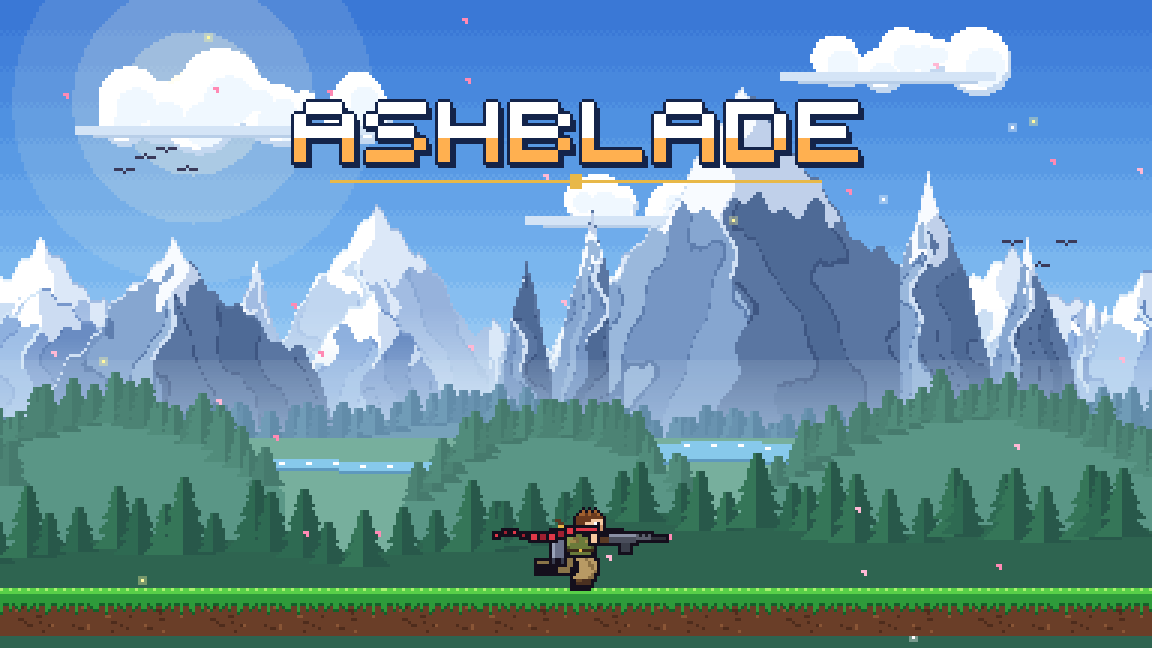
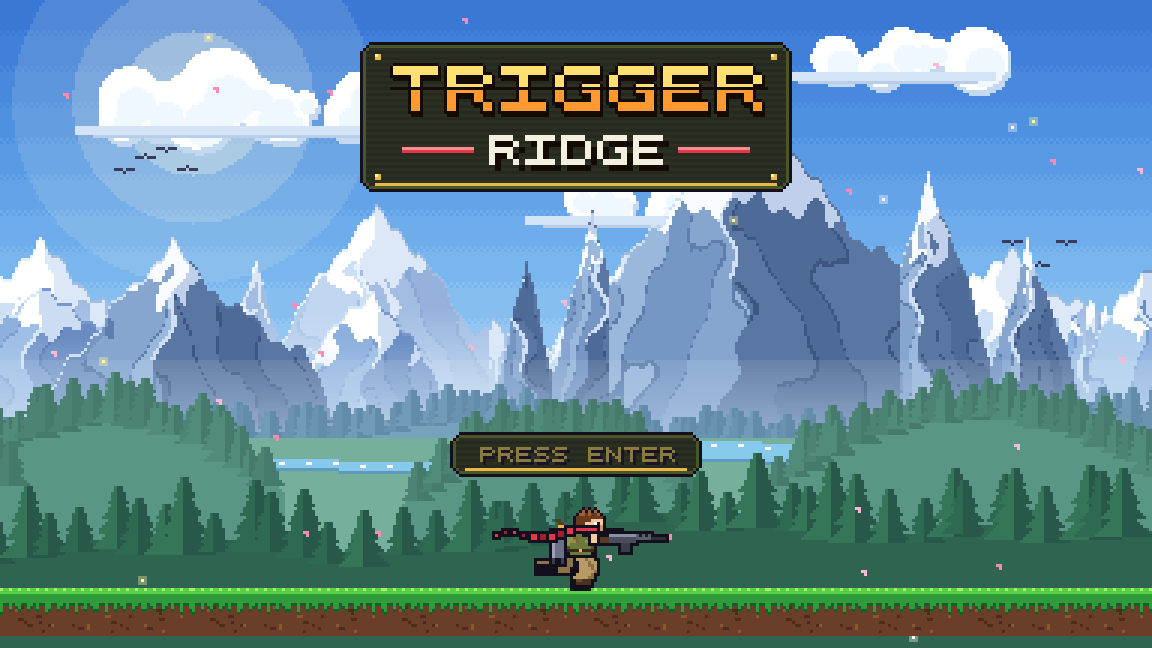
Rename to Trigger Ridge, add README and compact title badge
- Rename the game to Trigger Ridge (title screen and browser tab)
- Replace the wide title text with a compact military-style badge
- Add a README with how to play, controls, features and project structure
- Update the title mockup

Changed region(s): [[0.25, 0.0617, 0.75, 0.3086], [0.375, 0.6481, 0.625, 0.7407]]

diff --git a/js/main.js b/js/main.js
@@ -239,18 +239,45 @@ function drawTitle() {
   Background.drawFront(ctx, cam, game.t);
   for (let i = 0; i < W; i += 16) ctx.drawImage(TILES.top[(i >> 4) & 3], i, 196);
   drawRig(ctx, SKINS.rowan, { ...POSE.idle(game.t), flow: 0.9 }, W / 2, 196, 1, game.t * 0.15);
-  for (const [a, b] of [[-1, 0], [1, 0], [0, -1], [0, 1], [1, 1], [0, 2], [1, 2], [-1, 1], [2, 2]])
-    drawText(ctx, 'ASHBLADE', W / 2 + a, 34 + b, '#14244a', { scale: 4, align: 'center' });
-  drawText(ctx, 'ASHBLADE', W / 2, 34, '#ffffff', { scale: 4, align: 'center' });
+  drawLogo(W / 2, 14);
+  plate(W / 2 - 42, 144, 84, 15);
+  text('PRESS ENTER', W / 2, 149, (game.t >> 5) % 2 ? '#ffe070' : '#8a7a40', { align: 'center' });
+}
+
+// Dark plate with cut corners, an olive border and a gold trim line.
+function plate(x, y, w, h) {
+  for (let r = 0; r < h; r++) {
+    const cut = Math.max(0, 3 - Math.min(r, h - 1 - r));
+    px(ctx, OL, x + cut, y + r, w - cut * 2, 1);
+    if (r > 0 && r < h - 1) px(ctx, '#4a5628', x + cut + 1, y + r, w - cut * 2 - 2, 1);
+    if (r > 1 && r < h - 2) px(ctx, r % 2 ? '#262a1e' : '#2c3022', x + cut + 2, y + r, w - cut * 2 - 4, 1);
+  }
+  px(ctx, '#e8b848', x + 5, y + h - 3, w - 10, 1);
+}
+
+// Compact title badge: TRIGGER in hot yellow-to-orange stencil letters, RIDGE beneath between red bars.
+function drawLogo(cx, y) {
+  plate(cx - 72, y, 144, 50);
+  for (const [rx, ry] of [[cx - 67, y + 4], [cx + 65, y + 4], [cx - 67, y + 44], [cx + 65, y + 44]]) {
+    px(ctx, '#e8b848', rx, ry, 2, 2);
+    px(ctx, '#fff4b0', rx, ry, 1, 1);
+  }
+  const word = 'TRIGGER', ty = y + 8;
+  for (const [a, b] of [[-1, 0], [1, 0], [0, -1], [0, 1], [1, 1], [-1, 1], [0, 2], [1, 2]])
+    drawText(ctx, word, cx + a, ty + b, '#140c04', { scale: 3, align: 'center' });
+  drawText(ctx, word, cx, ty, '#ff9a30', { scale: 3, align: 'center' });
   ctx.save();
   ctx.beginPath();
-  ctx.rect(0, 46, W, 8);
+  ctx.rect(0, ty, W, 8);
   ctx.clip();
-  drawText(ctx, 'ASHBLADE', W / 2, 34, '#ffb050', { scale: 4, align: 'center' });
+  drawText(ctx, word, cx, ty, '#ffe070', { scale: 3, align: 'center' });
   ctx.restore();
-  px(ctx, '#e8b848', 110, 60, 164, 1);
-  px(ctx, '#e8b848', 190, 58, 4, 5);
-  if ((game.t >> 5) % 2) text('- PRESS ENTER -', W / 2, 150, '#fff4b0', { align: 'center' });
+  for (let i = 0; i < 7; i++) px(ctx, '#140c04', cx - 62 + i * 18, ty + 7, 18, 1); // stencil gap through the letters
+  drawText(ctx, 'RIDGE', cx, y + 31, '#f4f0e0', { scale: 2, align: 'center', shadow: '#140c04' });
+  for (const side of [-1, 1]) {
+    px(ctx, '#e03848', cx + side * 46 - 12, y + 35, 24, 2);
+    px(ctx, '#ff8a90', cx + side * 46 - 12, y + 35, 24, 1);
+  }
 }
 
 function render() {

diff --git a/index.html b/index.html
@@ -3,7 +3,7 @@
 <head>
 <meta charset="utf-8">
 <meta name="viewport" content="width=device-width, initial-scale=1">
-<title>Ashblade</title>
+<title>Trigger Ridge</title>
 <style>
   html, body { margin: 0; height: 100%; background: #0e1a30; }
   body { display: flex; align-items: center; justify-content: center; overflow: hidden; }

diff --git a/README.md b/README.md
@@ -1,0 +1,52 @@
+# Trigger Ridge
+
+A pixel-art run-and-gun platformer inspired by Metal Slug. Fight through a mountain valley as a jetpack commando, armed with a heavy machine gun and a machete.
+
+It runs in the browser using plain HTML5 Canvas and JavaScript. There's no build step and no dependencies, and all art and sound are generated in code.
+
+![Title screen](mockups/1-title.png)
+
+## Play
+
+Open `index.html` in any modern browser, then press **Enter** to start.
+
+## Controls
+
+| Input | Action |
+|---|---|
+| **A / D** | Move |
+| **Space** | Jump; press again in mid-air to double jump |
+| **V** | Jetpack on/off; fly with **W A S D** |
+| **Mouse** | Aim |
+| **Left click** | Attack: hold to fire the machine gun, or swing the machete |
+| **Right click / Q / mouse wheel** | Switch weapon |
+| **Shift** | Dash |
+| **S + Space** | Drop through branches |
+| **Enter** | Start / pause |
+
+## Features
+
+- **Heavy machine gun**: rapid fire with recoil, muzzle flash and shell casings
+- **Machete**: 3-hit combo, an up-slash, and a downward thrust that bounces off enemies
+- **Jetpack**: unlimited flight, plus a double jump
+- **Enemies**: Thorn Knights that telegraph their swings, and Blight Wisps that fire orbs you can shoot down
+- **World**: a mountain backdrop with layered scrolling, swaying plants, butterflies and a flowing river
+
+| | |
+|---|---|
+| ![Machine gun](mockups/4-machine-gun.png) | ![Jetpack flight](mockups/6-jetpack-flight.png) |
+
+## Project structure
+
+```
+index.html        page and script loading
+js/main.js        game loop, camera, HUD, screens
+js/player.js      player movement, weapons, jetpack
+js/entities.js    enemies, bullets, pickups, checkpoint, exit
+js/level.js       stage layout and tile collision
+js/art.js         character rig, sprites and scenery (all drawn in code)
+js/background.js  parallax mountain vista
+js/audio.js       synthesized sound effects
+js/input.js       keyboard and mouse
+mockups/          screenshots
+```
